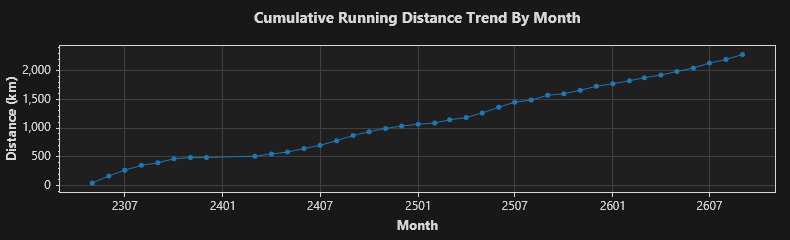
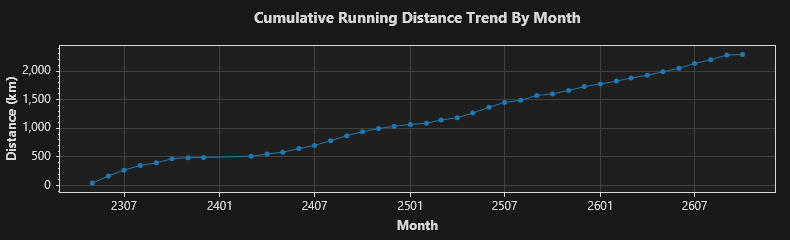
2026/10/5 跑步 6.07 公里

diff --git a/trend.md b/trend.md
@@ -1,4 +1,4 @@
-### Total: 387 days, 2282.0999999999999090505298227 km.
+### Total: 388 days, 2288.1700000000000727595761418 km.
 
 
 ![Monthly](https://github.com/prime167/MyRunningLog/blob/main/data/CumulativeTrendByMonth.png)
